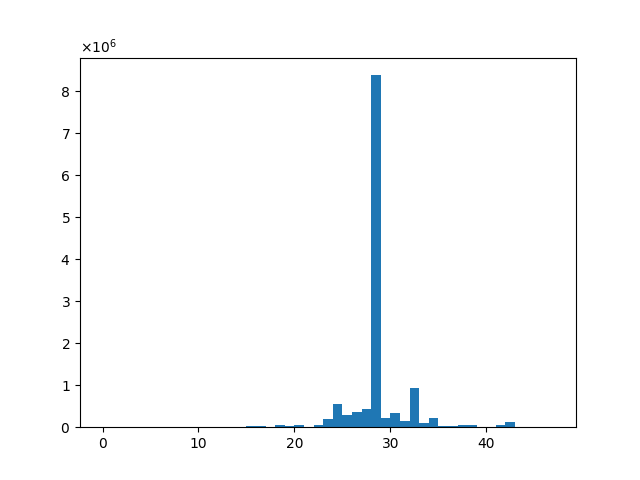
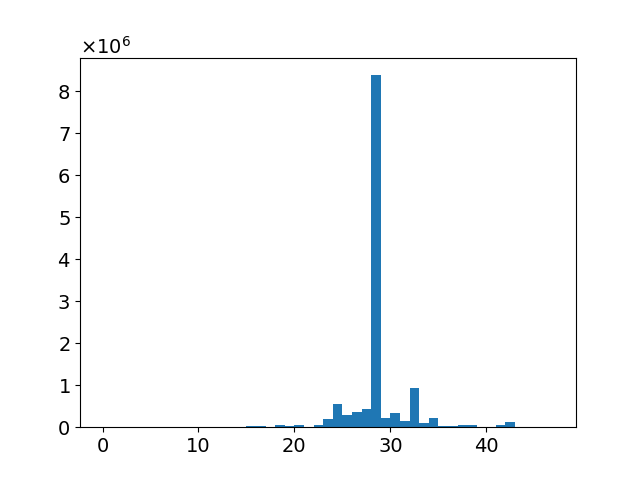
increase font size plots

diff --git a/liif/scripts/plot_scales_distribution.py b/liif/scripts/plot_scales_distribution.py
@@ -10,6 +10,12 @@ path = 'save/_train_swinir-baseline-lte-variable-input-div2k-final_sample-2304-s
 
 bins = 60
 
+# Set default font to Times New Roman
+plt.rcParams['font.family'] = 'Times New Roman'
+
+# Set default font size
+plt.rcParams['font.size'] = 14
+
 # Load dictionary from first file created via pickle
 with open(path + 'scale_freq.pickle', 'rb') as f:
     scale_freq = pickle.load(f)
